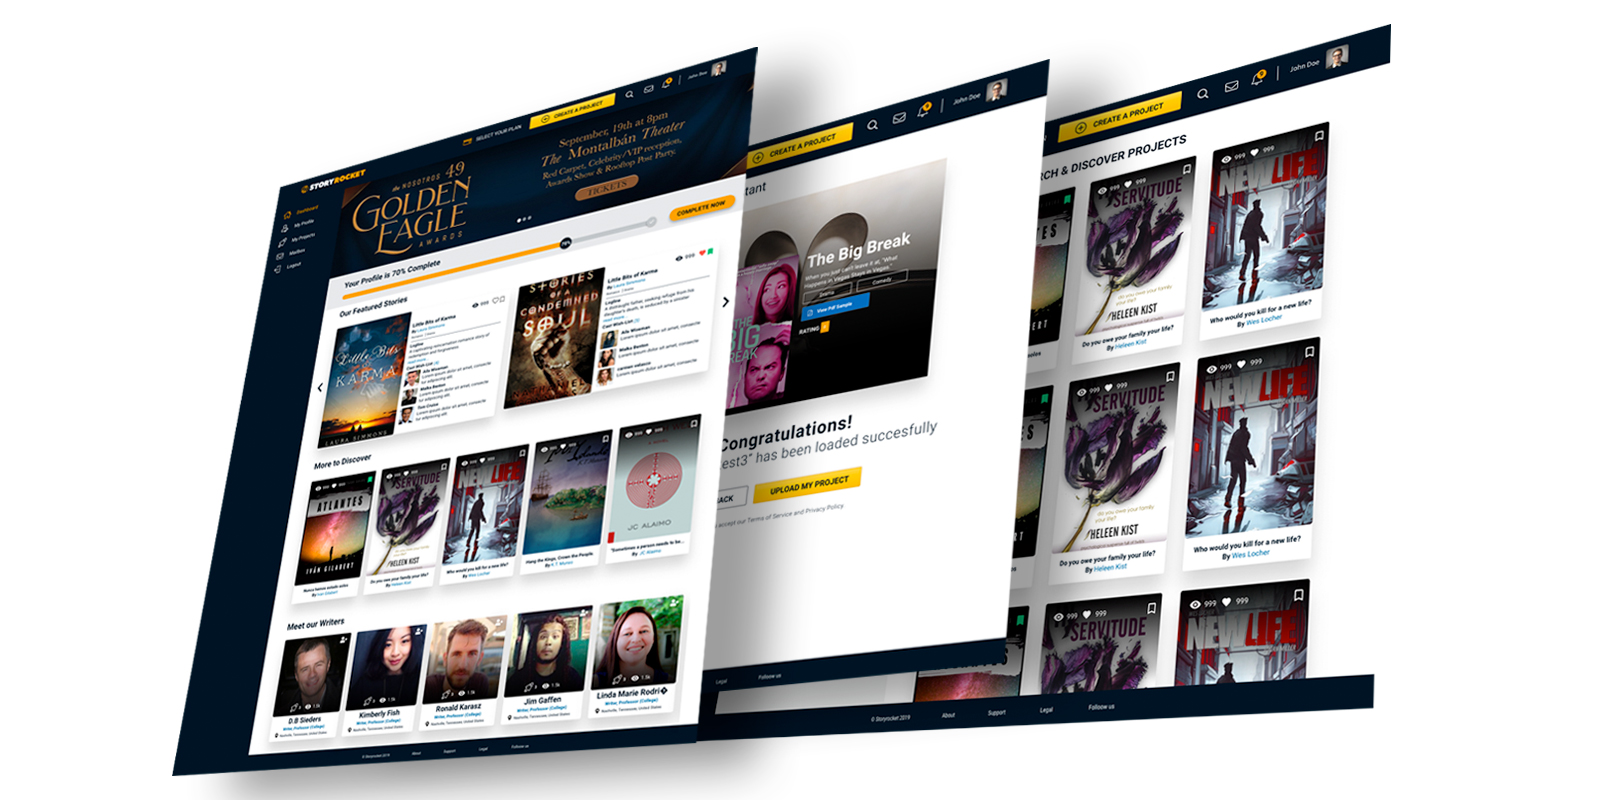
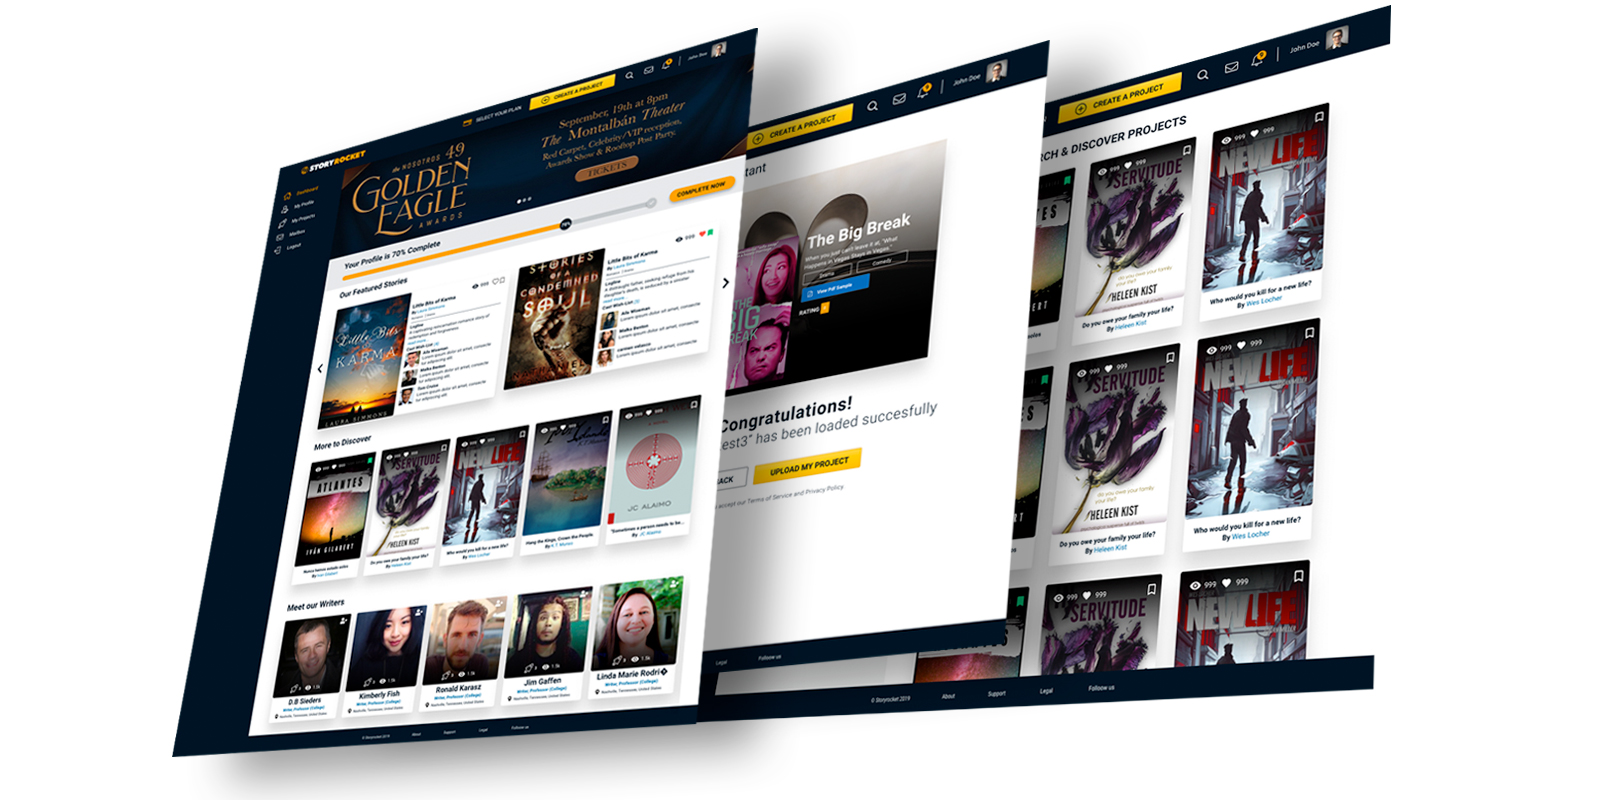
Storyrocket updates: UX sample images

diff --git a/src/pages/blog/cobuild-lab-partners-up-with-storyrocket.md b/src/pages/blog/cobuild-lab-partners-up-with-storyrocket.md
@@ -6,12 +6,12 @@ tags: News
 image: "./media/storyrocketportada.jpg"
 ---
 
-In early October, Cobuild Lab founder, <a href="https://www.linkedin.com/in/alacret/" target="_blank">Angel Lacret</a>, confirmed a partnership with Storyrocket to start developing a highly improved 2.0 version of the platform.
+In early October, Cobuild Lab founder, <a href="https://www.linkedin.com/in/alacret/" target="_blank">Angel Lacret</a>, confirmed a partnership with Storyrocket to start developing a highly improved 2.0 version of the platform.<br><br>
 
-Storyrocket is the ideal place to connect story writers with producers in the world of entertainment, including movies, reality shows, and web and tv series. In the world of entertainment, if you don't have connections, your story probably won't be seen, no matter how good it is.
-
+Storyrocket is the ideal place to connect story writers with producers in the world of entertainment, including movies, reality shows, and web and tv series. In the world of entertainment, if you don't have connections, your story probably won't be seen, no matter how good it is.<br><br>
 According to <a href="https://www.storyrocket.com/" target="_blank">Storyrocket</a> president, Emmy award-winning producer <a href="https://www.linkedin.com/in/ana-benitez-69097a8/" target="_blank">Ana Benitez</a>, there are more distribution channels than ever and they need more and more content, and that content is everywhere.That's where Storyrocket enters the scene, seeing an opportunity to create a  connection between the world of creation and the world of content distribution.
 <br><br>
 Now Cobuild Lab has the mission of building a Version 2.0 of the platform, upgrading the look and feel as well, as well as many of its core functionalities and backend technologies. 
 
 Stay tuned for more Storyrocket updates!
+[![Storyrocket Early Mock-Ups](./media/storyrocket-ux-samples.jpg)](#)
